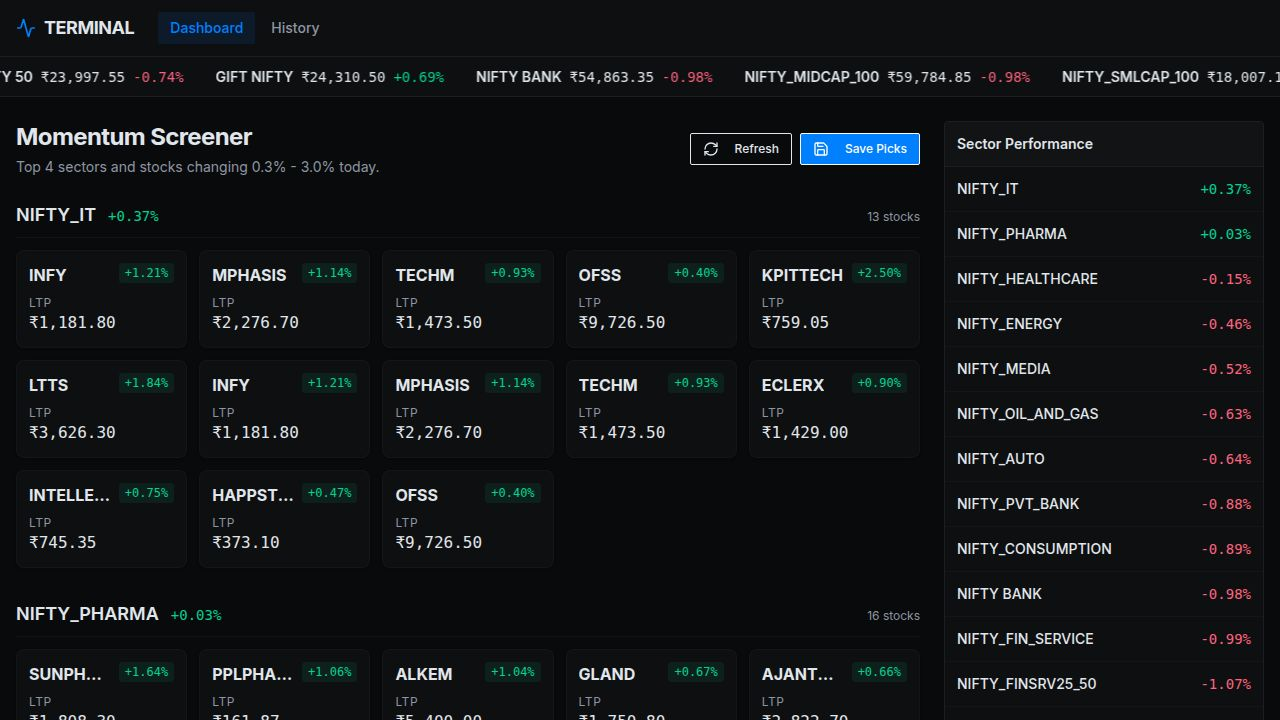
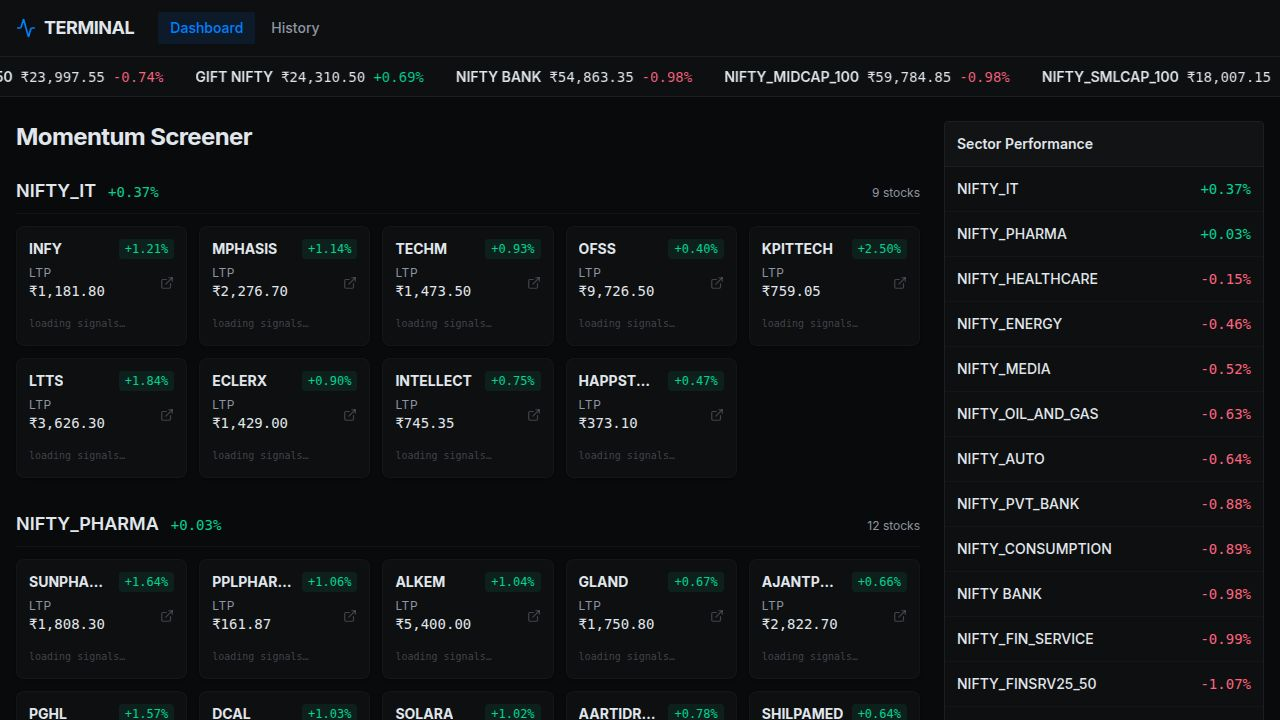
Remove unused indicator fields from stock data
Remove vwap, ema20, and related fields from the stock momentum picks API response.

Replit-Commit-Author: Agent
Replit-Commit-Session-Id: 3982106f-a943-4d80-a1b0-df90ba7f6efe
Replit-Commit-Checkpoint-Type: full_checkpoint
Replit-Commit-Event-Id: 01c7b1b4-59ca-443e-b9d4-a4dd4e8a13b4
Replit-Commit-Screenshot-Url: https://storage.googleapis.com/screenshot-production-us-central1/7dc5d2c5-aaee-45ac-96a7-fbc5ea92b6a0/3982106f-a943-4d80-a1b0-df90ba7f6efe/nqi0lMN
Replit-Helium-Checkpoint-Created: true

diff --git a/artifacts/api-server/src/routes/stocks.ts b/artifacts/api-server/src/routes/stocks.ts
@@ -138,6 +138,12 @@ router.get("/momentum-picks", async (req, res) => {
               symbol: stock.symbol,
               ltp: stock.ltp,
               changePct: stock.changePct,
+              vwap: null,
+              ema20: null,
+              confirmedClose: null,
+              vwapSignal: null,
+              ema20Signal: null,
+              entrySignal: null,
             }));
 
           return {
